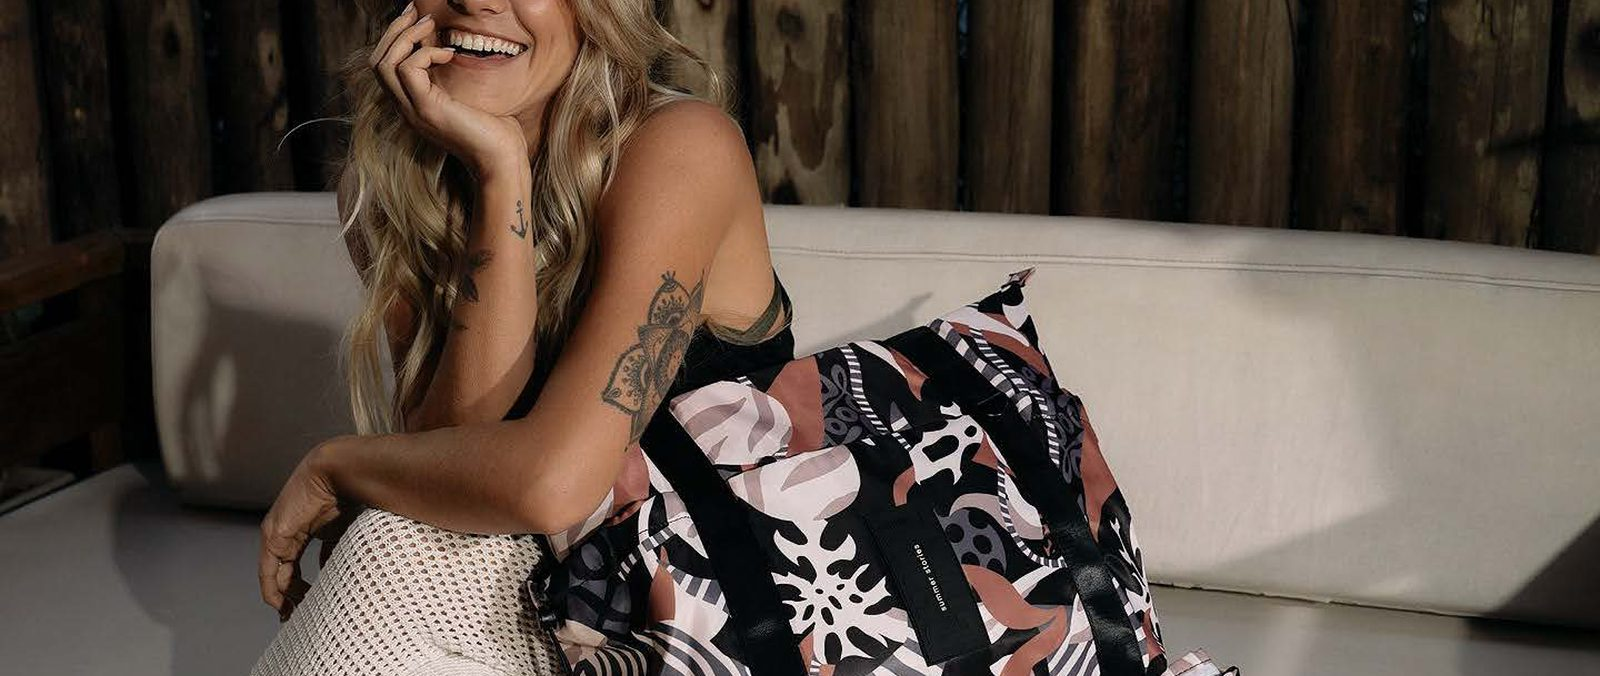
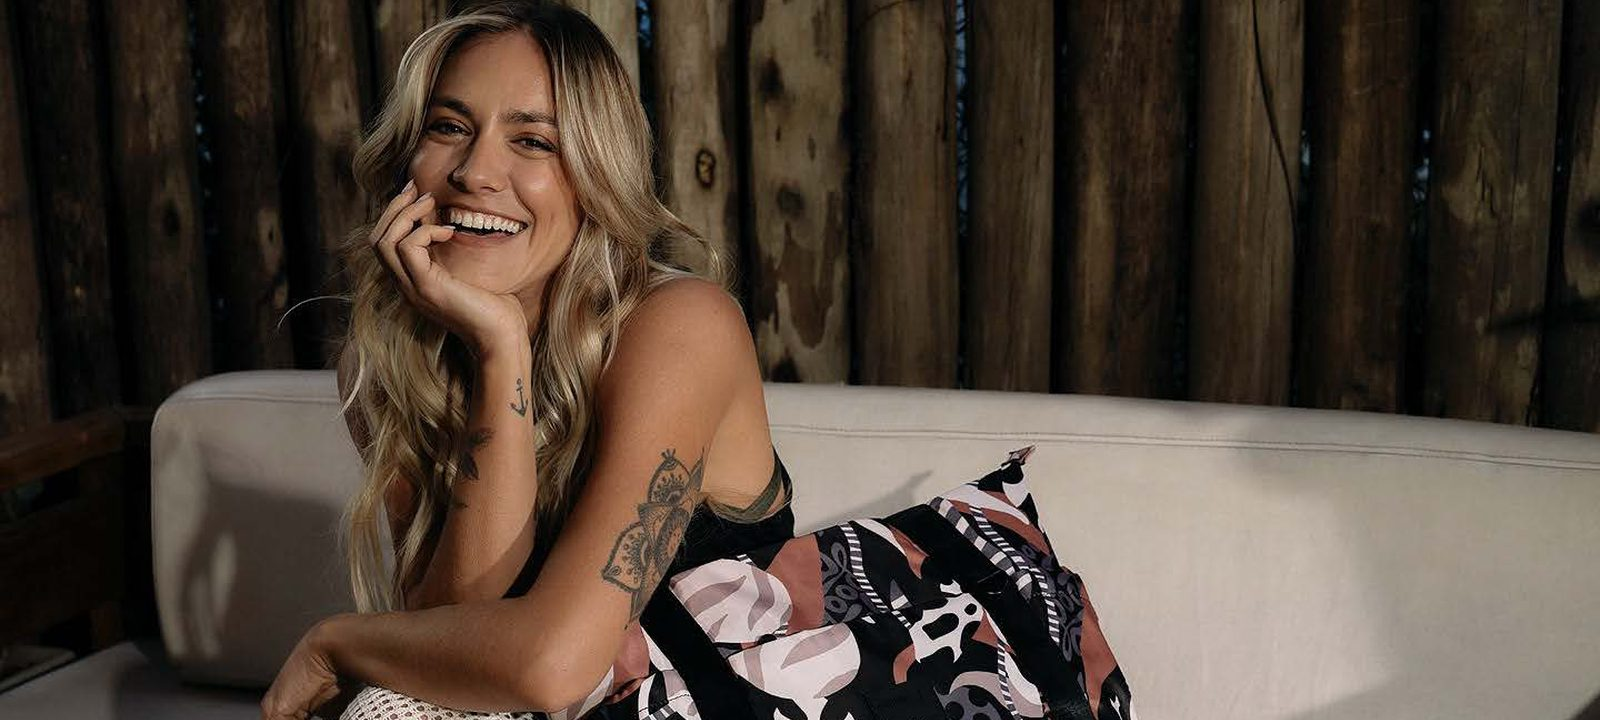
Login: foto con aire arriba y anclada al borde superior (no corta la cabeza en pantallas angostas)

diff --git a/web/src/app/login/page.tsx b/web/src/app/login/page.tsx
@@ -33,7 +33,7 @@ export default function LoginPage() {
           <div className="relative">
             <div className="relative aspect-[1125/475] w-full overflow-hidden bg-[#2a2320] lg:w-[calc(100%-60px)]">
               {/* eslint-disable-next-line @next/next/no-img-element */}
-              <img src="/banners/login.jpg" alt="" className="absolute inset-0 h-full w-full object-cover" />
+              <img src="/banners/login.jpg" alt="" className="absolute inset-0 h-full w-full object-cover object-top" />
               <div className="absolute inset-0 bg-gradient-to-r from-black/55 via-black/20 to-transparent" />
               <div className="absolute left-[10%] top-[28%] text-white">
                 <h1 className="font-brand text-[44px] font-extrabold leading-[1.02]">Bienvenido<br />a Lautin<br />Accesorios</h1>
